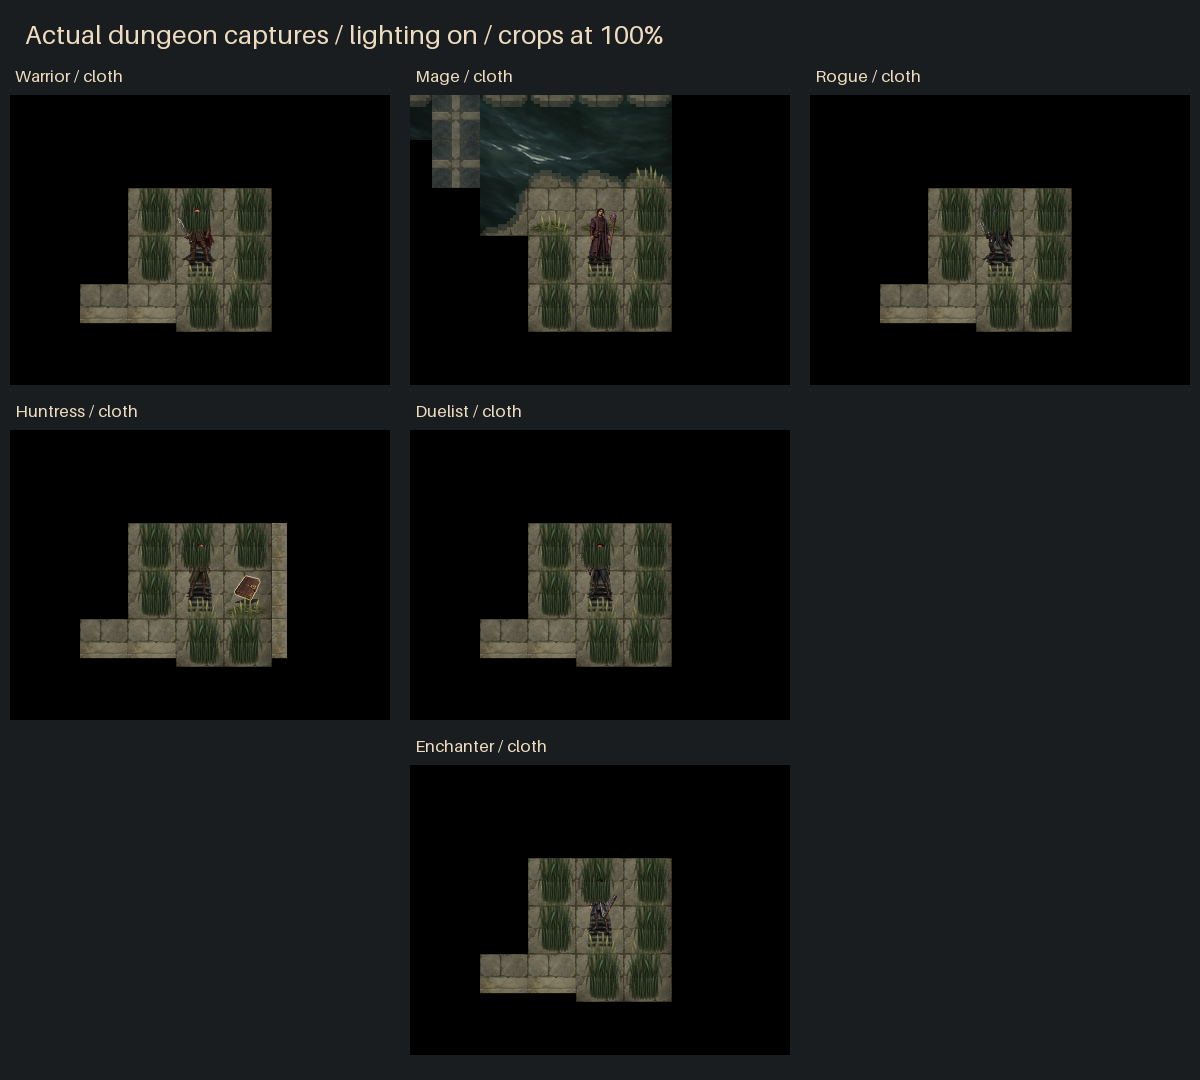
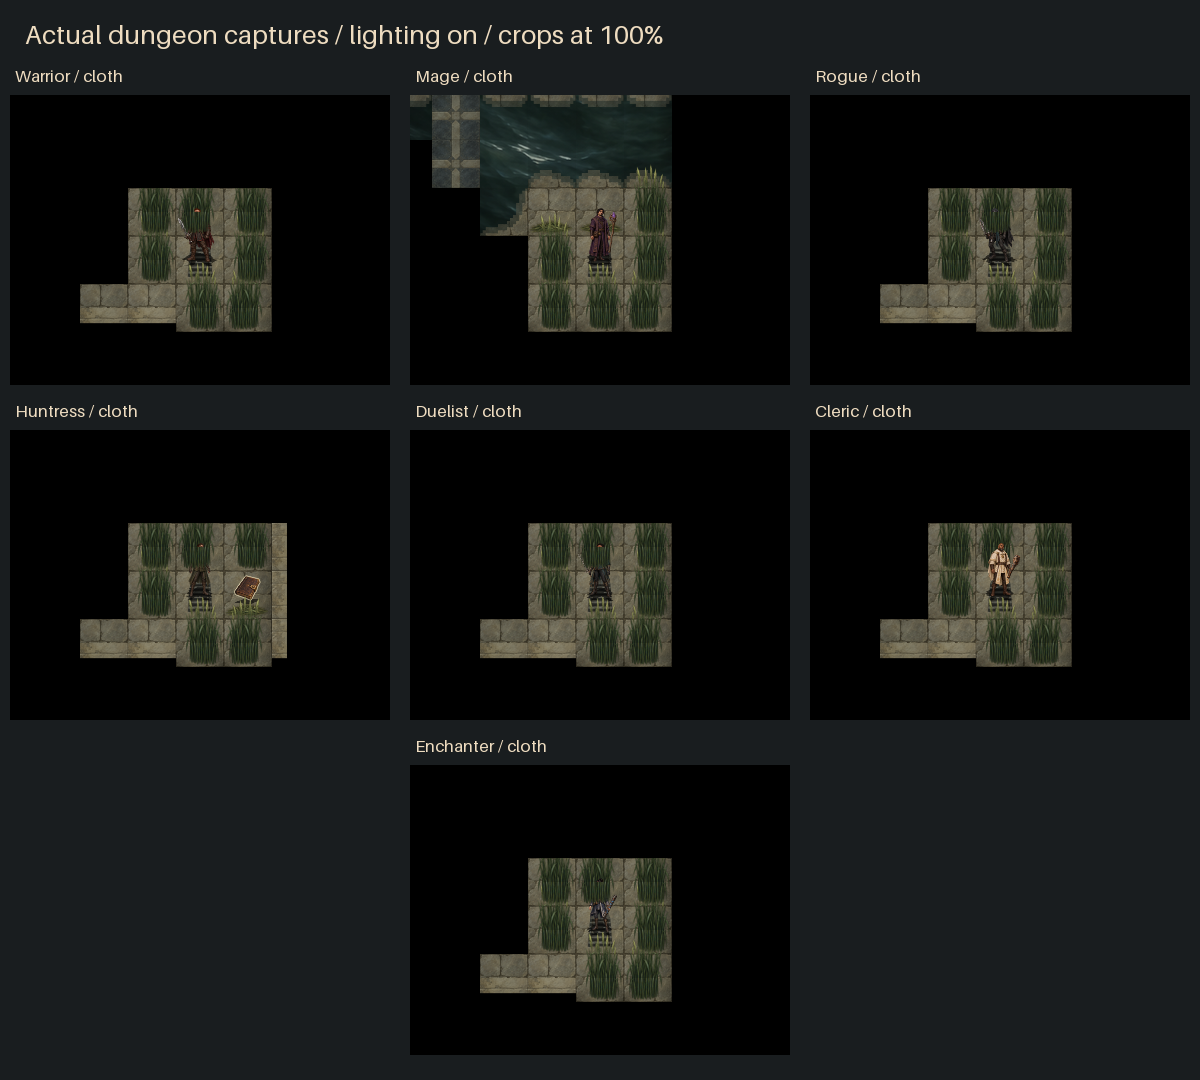
Paint Cleric fitted armor and individual weapon-aware poses

Changed region(s): [[0.6475, 0.3667, 1.0, 0.6722]]

diff --git a/desktop/src/main/java/com/shatteredpixel/shatteredpixeldungeon/desktop/DesktopSmokeProbe.java b/desktop/src/main/java/com/shatteredpixel/shatteredpixeldungeon/desktop/DesktopSmokeProbe.java
@@ -2249,6 +2249,7 @@ final class DesktopSmokeProbe extends ShatteredPixelDungeon {
             }
             Dungeon.hero.heroClass=original;Dungeon.hero.sprite=originalSprite;
             heroEquipmentChecks(buffer,camera,failures);
+            grassDepthChecks(failures);
             java.io.File jar=new java.io.File(getClass().getProtectionDomain().getCodeSource().getLocation().toURI());
             try(java.util.jar.JarFile classes=new java.util.jar.JarFile(jar)) {
                 java.util.Enumeration<java.util.jar.JarEntry> entries=classes.entries();
@@ -2389,6 +2390,51 @@ final class DesktopSmokeProbe extends ShatteredPixelDungeon {
             if(!failures.isEmpty())throw new AssertionError("Rendering acceptance failures="+failures.size());
             System.out.println("TESTS 24-26, 34, 36 PASS; test 35 retired by recovery");
         }catch(Exception e){throw new RuntimeException(e);}
+    }
+    private void grassDepthChecks(java.util.List<String> failures)throws Exception {
+        Class<?> type=com.shatteredpixel.shatteredpixeldungeon.tiles.RaisedTerrainTilemap.class;
+        java.lang.reflect.Field behindField=type.getDeclaredField("behindCells"),nextField=type.getDeclaredField("next");
+        behindField.setAccessible(true);nextField.setAccessible(true);
+        java.util.Set<Integer> behind=(java.util.Set<Integer>)behindField.get(null),next=(java.util.Set<Integer>)nextField.get(null);
+        java.util.Set<Integer> savedBehind=new java.util.HashSet<>(behind),savedSkip=new java.util.HashSet<>(com.shatteredpixel.shatteredpixeldungeon.tiles.RaisedTerrainTilemap.skipCells);
+        java.lang.reflect.Method protect=type.getDeclaredMethod("protectUpperBody",com.shatteredpixel.shatteredpixeldungeon.sprites.CharSprite.class);
+        java.lang.reflect.Method visual=type.getDeclaredMethod("getTileVisual",int.class,int.class,boolean.class);
+        protect.setAccessible(true);visual.setAccessible(true);
+        HeroClass original=Dungeon.hero.heroClass;com.shatteredpixel.shatteredpixeldungeon.sprites.CharSprite originalSprite=Dungeon.hero.sprite;
+        java.util.Map<Integer,Integer> terrain=new java.util.HashMap<>();
+        int cell=Dungeon.hero.pos,width=Dungeon.level.width(),checks=0;
+        for(int dy=-2;dy<=1;dy++)for(int dx=-1;dx<=1;dx++){int p=cell+dy*width+dx;if(p>=0&&p<Dungeon.level.length())terrain.put(p,Dungeon.level.map[p]);}
+        com.shatteredpixel.shatteredpixeldungeon.tiles.RaisedTerrainTilemap back=new com.shatteredpixel.shatteredpixeldungeon.tiles.RaisedTerrainTilemap(true),front=new com.shatteredpixel.shatteredpixeldungeon.tiles.RaisedTerrainTilemap();
+        try {
+            for(HeroClass hero:HeroClass.values()){
+                Dungeon.hero.heroClass=hero;
+                com.shatteredpixel.shatteredpixeldungeon.sprites.HeroSprite sprite=new com.shatteredpixel.shatteredpixeldungeon.sprites.HeroSprite();
+                for(int state:new int[]{Terrain.HIGH_GRASS,Terrain.FURROWED_GRASS}){
+                    for(int p:terrain.keySet())Dungeon.level.map[p]=state;
+                    for(float offset:new float[]{-4,0,4}){
+                        sprite.place(cell);sprite.x+=offset;sprite.y+=offset;
+                        next.clear();protect.invoke(null,sprite);behind.clear();behind.addAll(next);
+                        for(int p:terrain.keySet()){
+                            int a=(Integer)visual.invoke(back,p,state,false),b=(Integer)visual.invoke(front,p,state,false);
+                            if((a>=0)==(b>=0))failures.add("24 grass omitted/duplicated "+hero+" cell="+p);
+                        }
+                        if(offset==0){
+                            if((Integer)visual.invoke(front,cell-width,state,false)>=0)failures.add("24 grass covers head "+hero);
+                            if((Integer)visual.invoke(front,cell,state,false)<0)failures.add("24 grass missing at feet "+hero);
+                        }
+                        checks++;
+                    }
+                }
+                sprite.destroy();
+            }
+        }finally{
+            for(java.util.Map.Entry<Integer,Integer> e:terrain.entrySet())Dungeon.level.map[e.getKey()]=e.getValue();
+            Dungeon.hero.heroClass=original;Dungeon.hero.sprite=originalSprite;
+            behind.clear();behind.addAll(savedBehind);next.clear();
+            com.shatteredpixel.shatteredpixeldungeon.tiles.RaisedTerrainTilemap.skipCells.clear();com.shatteredpixel.shatteredpixeldungeon.tiles.RaisedTerrainTilemap.skipCells.addAll(savedSkip);
+            back.destroy();front.destroy();
+        }
+        System.out.println("GRASS DEPTH: nine heroes, standing/rustled, movement offsets, head/feet partition checks="+checks+" failures="+failures.size());
     }
     private void heroEquipmentChecks(com.badlogic.gdx.graphics.glutils.FrameBuffer buffer,Camera camera,java.util.List<String> failures)throws Exception {
         com.shatteredpixel.shatteredpixeldungeon.actors.hero.Hero hero=Dungeon.hero;

diff --git a/core/src/main/java/com/shatteredpixel/shatteredpixeldungeon/tiles/RaisedTerrainTilemap.java b/core/src/main/java/com/shatteredpixel/shatteredpixeldungeon/tiles/RaisedTerrainTilemap.java
@@ -28,40 +28,57 @@ import com.shatteredpixel.shatteredpixeldungeon.levels.Terrain;
 import java.util.HashSet;
 
 public class RaisedTerrainTilemap extends DungeonTilemap {
-	
-	public RaisedTerrainTilemap() {
-		super(Assets.Environment.RAISED_TERRAIN);
-		skipCells.clear();
-		map( Dungeon.level.map, Dungeon.level.width() );
-	}
+    private final boolean behindActors;
+    private final HashSet<Integer> previous = new HashSet<>();
+    private static final HashSet<Integer> behindCells = new HashSet<>();
+    private static final HashSet<Integer> next = new HashSet<>();
+    public static HashSet<Integer> skipCells = new HashSet<>();
 
-	public static HashSet<Integer> skipCells = new HashSet<>();
-
-	@Override
-	protected int getTileVisual(int pos, int tile, boolean flat) {
-        if (flat) return -1;
-
-		if (skipCells.contains(pos)){
-			return -1;
-		}
-
-		int region = (Dungeon.depth-1)/5;
-		int regionOffset = region*4;
-
-		if (tile == Terrain.HIGH_GRASS){
-			if (DungeonTileSheet.getVisualWithAlts(DungeonTileSheet.RAISED_HIGH_GRASS, pos) == DungeonTileSheet.RAISED_HIGH_GRASS_ALT){
-				return regionOffset + 2;
-			} else {
-				return regionOffset;
-			}
-		} else if (tile == Terrain.FURROWED_GRASS){
-			if (DungeonTileSheet.getVisualWithAlts(DungeonTileSheet.RAISED_FURROWED_GRASS, pos) == DungeonTileSheet.RAISED_FURROWED_ALT){
-				return regionOffset + 1 + 2;
-			} else {
-				return regionOffset + 1;
-			}
-		}
-		
-		return -1;
-	}
+    public RaisedTerrainTilemap() { this(false); }
+    public RaisedTerrainTilemap(boolean behindActors) {
+        super(Assets.Environment.RAISED_TERRAIN);
+        this.behindActors=behindActors;
+        if(behindActors)behindCells.clear();
+        skipCells.clear();
+        map(Dungeon.level.map, Dungeon.level.width());
+    }
+    @Override public void draw() {
+        if(behindActors)partitionActors();
+        // Only rebuild cells crossing an upper silhouette. At rest both
+        // batches remain cached; both passes reuse the same grass texture.
+        for(int cell:previous)if(!behindCells.contains(cell))updateMapCell(cell);
+        for(int cell:behindCells)if(!previous.contains(cell))updateMapCell(cell);
+        previous.clear();previous.addAll(behindCells);
+        super.draw();
+    }
+    private static void partitionActors() {
+        next.clear();
+        if(Dungeon.hero!=null)protectUpperBody(Dungeon.hero.sprite);
+        // Actors may spawn/despawn on their worker thread; use its synchronized
+        // snapshot rather than iterating the level's mutable mob collection.
+        for(com.shatteredpixel.shatteredpixeldungeon.actors.Char actor:com.shatteredpixel.shatteredpixeldungeon.actors.Actor.chars())protectUpperBody(actor.sprite);
+        behindCells.clear();behindCells.addAll(next);
+    }
+    private static void protectUpperBody(com.shatteredpixel.shatteredpixeldungeon.sprites.CharSprite sprite) {
+        if(sprite==null||!sprite.visible||sprite.am<=0)return;
+        float top=sprite.y,bottom=top+sprite.height()*.65f;
+        int width=Dungeon.level.width(),height=Dungeon.level.height();
+        int x0=Math.max(0,(int)Math.floor(sprite.x/SIZE)),x1=Math.min(width-1,(int)Math.floor((sprite.x+sprite.width()-.001f)/SIZE));
+        int y0=Math.max(0,(int)Math.floor(top/SIZE)),y1=Math.min(height-1,(int)Math.floor((bottom-.001f)/SIZE));
+        for(int y=y0;y<=y1;y++)for(int x=x0;x<=x1;x++) {
+            int cell=y*width+x,tile=Dungeon.level.map[cell];
+            // The foreground painting has pixels only in its lower half.
+            if((tile==Terrain.HIGH_GRASS||tile==Terrain.FURROWED_GRASS)&&y*SIZE+SIZE/2f<bottom&&(y+1)*SIZE>top)next.add(cell);
+        }
+    }
+    @Override protected int getTileVisual(int pos,int tile,boolean flat) {
+        if(flat||skipCells.contains(pos)||behindActors!=behindCells.contains(pos))return -1;
+        int regionOffset=(Dungeon.depth-1)/5*4;
+        if(tile==Terrain.HIGH_GRASS) {
+            return regionOffset+(DungeonTileSheet.getVisualWithAlts(DungeonTileSheet.RAISED_HIGH_GRASS,pos)==DungeonTileSheet.RAISED_HIGH_GRASS_ALT?2:0);
+        } else if(tile==Terrain.FURROWED_GRASS) {
+            return regionOffset+1+(DungeonTileSheet.getVisualWithAlts(DungeonTileSheet.RAISED_FURROWED_GRASS,pos)==DungeonTileSheet.RAISED_FURROWED_ALT?2:0);
+        }
+        return -1;
+    }
 }

diff --git a/core/src/main/java/com/shatteredpixel/shatteredpixeldungeon/scenes/GameScene.java b/core/src/main/java/com/shatteredpixel/shatteredpixeldungeon/scenes/GameScene.java
@@ -168,7 +168,7 @@ public class GameScene extends PixelScene {
 	private GridTileMap visualGrid;
 	private WallOcclusionTilemap occlusion;
 	private TerrainFeaturesTilemap terrainFeatures;
-	private RaisedTerrainTilemap raisedTerrain;
+	private RaisedTerrainTilemap raisedTerrain, raisedTerrainBehind;
     private com.shatteredpixel.shatteredpixeldungeon.tiles.GrassOverhangTilemap grassOverhang;
 	private DungeonWallsTilemap walls;
 	private WallBlockingTilemap wallBlocking;
@@ -363,6 +363,8 @@ public class GameScene extends PixelScene {
 		
 		grassOverhang = new com.shatteredpixel.shatteredpixeldungeon.tiles.GrassOverhangTilemap();
         add(grassOverhang);
+        raisedTerrainBehind = new RaisedTerrainTilemap(true);
+        add(raisedTerrainBehind);
 
         mobs = new Group();
 		add( mobs );
@@ -1440,6 +1442,7 @@ public class GameScene extends PixelScene {
 			scene.visualGrid.map(Dungeon.level.map, Dungeon.level.width() );
 			scene.terrainFeatures.map(Dungeon.level.map, Dungeon.level.width() );
 			scene.raisedTerrain.map(Dungeon.level.map, Dungeon.level.width() );
+            scene.raisedTerrainBehind.map(Dungeon.level.map, Dungeon.level.width());
 			scene.walls.map(Dungeon.level.map, Dungeon.level.width() );
             scene.grassOverhang.map(Dungeon.level.map, Dungeon.level.width());
 		}
@@ -1454,6 +1457,7 @@ public class GameScene extends PixelScene {
 			scene.visualGrid.updateMap();
 			scene.terrainFeatures.updateMap();
 			scene.raisedTerrain.updateMap();
+            scene.raisedTerrainBehind.updateMap();
 			scene.walls.updateMap();
             scene.grassOverhang.updateMap();
 			updateFog();
@@ -1467,6 +1471,7 @@ public class GameScene extends PixelScene {
 			scene.visualGrid.updateMapCell( cell );
 			scene.terrainFeatures.updateMapCell( cell );
 			scene.raisedTerrain.updateMapCell( cell );
+            scene.raisedTerrainBehind.updateMapCell(cell);
 			scene.walls.updateMapCell( cell );
             scene.grassOverhang.updateMapCell(cell);
 			//update adjacent cells too

diff --git a/core/src/main/java/com/shatteredpixel/shatteredpixeldungeon/ui/changelist/GrimhollowChanges.java b/core/src/main/java/com/shatteredpixel/shatteredpixeldungeon/ui/changelist/GrimhollowChanges.java
@@ -20,7 +20,9 @@ public final class GrimhollowChanges {
         release.addButton(new ChangeButton(icon.get(),title,text));
     }
     public static void addAllChanges(ArrayList<ChangeInfo> list) {
-        ChangeInfo r=release(list,"v1.22.3","A poised painted Duelist.");
+        ChangeInfo r=release(list,"v1.22.4","A steadfast painted Cleric and clearer grass overlap.");
+        note(r,Icons.TALENT,"Cleric presentation","Cleric gains ivory cape and stole panels over fitted armor, with his portrait face and grounded natural proportions. Grass in the row behind upper bodies now draws behind them while blades remain around feet. Gameplay and timing remain unchanged.");
+        r=release(list,"v1.22.3","A poised painted Duelist.");
         note(r,Icons.TALENT,"Duelist presentation","Duelist gains a fencing stance, fitted teal doublet, ivory collar and asymmetric shoulder armor, with her portrait identity and natural proportions. Equipped and ability-selected weapons follow her grip. Gameplay and timing remain unchanged.");
         r=release(list,"v1.22.2","A long-legged painted ranger.");
         note(r,Icons.TALENT,"Huntress presentation","Huntress has a moss-green split coat, short fur mantle, long legs and fitted ranger armor. Her held bow or other weapon follows the equipped loadout, with restrained coat movement. Gameplay and timing remain unchanged.");

diff --git a/README.md b/README.md
@@ -2,7 +2,7 @@
 
 v1.22.1 includes 2 of seven additional painted heroes, following the weapon-aware Warrior/Enchanter pilot and the sprint's interface, Horror, rune, Psychic and icon fixes. Each hero is reviewed at a committed batch boundary; remaining batches are listed below.
 
-v1.20.1 is a **Warrior and Enchanter art proof of concept**: proportioned painted bodies, class-fitted armor, distinct silhouettes and restrained motion with still idles. Faces match the existing selection portraits. Gameplay, world height and animation timings are unchanged; the other seven heroes await review of this pilot. Comparisons, pose sheets and animation previews are in [verification/heroes/pilot](verification/heroes/pilot/). Windows launcher: `desktop/build/windows/1.22.3/Grimhollow/Grimhollow.exe`; Android: `android/build/outputs/apk/debug/android-debug.apk`.
+v1.20.1 is a **Warrior and Enchanter art proof of concept**: proportioned painted bodies, class-fitted armor, distinct silhouettes and restrained motion with still idles. Faces match the existing selection portraits. Gameplay, world height and animation timings are unchanged; the other seven heroes await review of this pilot. Comparisons, pose sheets and animation previews are in [verification/heroes/pilot](verification/heroes/pilot/). Windows launcher: `desktop/build/windows/1.22.4/Grimhollow/Grimhollow.exe`; Android: `android/build/outputs/apk/debug/android-debug.apk`.
 
 v1.19.2 refreshes Adventuring Notes with painted terrain/landmark icons and fitted NPC portraits. Discovered elemental treasuries receive persistent fire, water or lightning reminders, including preparation tips, until their seals are opened. The home-screen Update Log describes these releases.
 
@@ -50,7 +50,7 @@ For rapid testing, open **Menu → Playtest → enable for this save → Travel 
 
 Existing saves remain compatible, but the hunter is not retroactively inserted into an already generated City floor. A new run is the reliable way to experience the normal quest. All eight components have committed checkpoints; see [verification](verification/ACCEPTANCE.md) and [known issues](KNOWN_ISSUES.md). The existing terrain-contrast gate remains enforced and is still a known failure; no full green CI or physical-tablet playtest is claimed.
 
-Local launchers after building: `desktop/build/windows/1.22.3/Grimhollow/Grimhollow.exe` (keep its whole folder), `desktop/build/libs/desktop-1.17.1.jar`, and `android/build/outputs/apk/debug/android-debug.apk`. Android is a debug-signed sideload build.
+Local launchers after building: `desktop/build/windows/1.22.4/Grimhollow/Grimhollow.exe` (keep its whole folder), `desktop/build/libs/desktop-1.17.1.jar`, and `android/build/outputs/apk/debug/android-debug.apk`. Android is a debug-signed sideload build.
 
 Original expedition paintings, exact generation prompts and the offline packing recipe are in [sources](tools/painted/sources/expedition/), [prompts](tools/painted/expedition-prompts.json), and [packer](tools/painted/expedition.py). Native screenshots are in `verification/interface/{landscape,portrait}/expedition-*.png`; CI reconstructs the committed sources without an image-generation service.
 
@@ -244,7 +244,7 @@ By **Evan Debenham and contributors**: [Shattered Pixel Dungeon project](https:/
 
 ## Next sprint: playtesting fixes and character presentation
 
-Sprint in progress, updated 2026-10-04: components 1–6 delivered in v1.21.0–1.21.5; component 7 has delivered 4 of seven additional hero batches through Duelist v1.22.3. This incorporates the latest playtesting discussion and supersedes earlier proposals to expose a recovering Horror on ordinary sight, remove the Seer passive, or allow Crystal inventory casting without a talent. In-game Playtest access is already delivered in v1.20.2 and is not a new sprint task.
+Sprint in progress, updated 2026-10-04: components 1–6 delivered in v1.21.0–1.21.5; component 7 has delivered 5 of seven additional hero batches through Cleric v1.22.4. This incorporates the latest playtesting discussion and supersedes earlier proposals to expose a recovering Horror on ordinary sight, remove the Seer passive, or allow Crystal inventory casting without a talent. In-game Playtest access is already delivered in v1.20.2 and is not a new sprint task.
 
 ### Component 1 - Positioning, grass and notification fixes
 

diff --git a/verification/ACCEPTANCE.md b/verification/ACCEPTANCE.md
@@ -1,3 +1,14 @@
+# Sprint component 7 - Cleric v1.22.4
+
+- Windows/Android build and seven JUnit tests: **BUILD SUCCESSFUL in 46s**; native Windows application packaged. Focused reproducibility: **PAINTED assets=1 source sheets=147 failures=0**.
+- Existing geometry: **HERO EQUIPMENT: native draws=1344 cloth/plate, both facings, eight loadouts, movement/action poses, secondary and thrown capture; failures=0**. Nine heroes, 126 creature sprites, 386 items and 60 identity emblems pass. Source, fitted cloth/plate poses, animation preview and actual lit/unlit dungeon captures reviewed in verification/heroes/cleric/.
+- No gameplay or timings changed. Test 45 remains abandoned and is not run. Physical tablet and campaign review remain with the user.
+
+# Grass foreground follow-up - v1.22.4
+
+- Existing geometry gate extended: **GRASS DEPTH checks=54 failures=0**, all nine heroes, standing/rustled grass and movement offsets. Grass drawing has disjoint complete background/foreground partitions; the northern foreground tile cannot cover the head, while the current cell retains foot blades at rest.
+- Live Cleric capture confirms the upper body remains visible in a grassy spawn cell. One additional cached tile batch reuses the grass texture; synchronized actor snapshots protect rendering during summons/despawns. No source pixels, terrain, fog or gameplay rules changed.
+
 # Sprint component 7 - Duelist v1.22.3
 
 - Windows/Android build and seven JUnit tests: **BUILD SUCCESSFUL in 46s**; native Windows application packaged. Focused reproducibility: **PAINTED assets=1 source sheets=146 failures=0**.

diff --git a/CHANGES.md b/CHANGES.md
@@ -1,3 +1,8 @@
+# Sprint component 7 - Cleric v1.22.4
+
+- Cleric keeps his portrait face, ivory cape and long stole panels over armor fitted to a grounded natural silhouette. Complete the grass depth repair: foreground blades in the row above upper bodies move to a cached background pass, while current-cell blades remain around feet. Use synchronized actor snapshots when summons appear; terrain art, fog and rules are unchanged.
+- Committed source and prompt compile offline into the existing eight armor rows and 21 poses, with class-specific grip/motion. Gameplay, world height and combat timings are unchanged.
+
 # Sprint component 7 - Duelist v1.22.3
 
 - Duelist keeps her portrait face and cropped curls, with a poised fencing stance, fitted teal doublet, ivory collar and asymmetric shoulder armor. Primary, ability-selected and thrown weapons use her individual grip, without changing attack timing.
